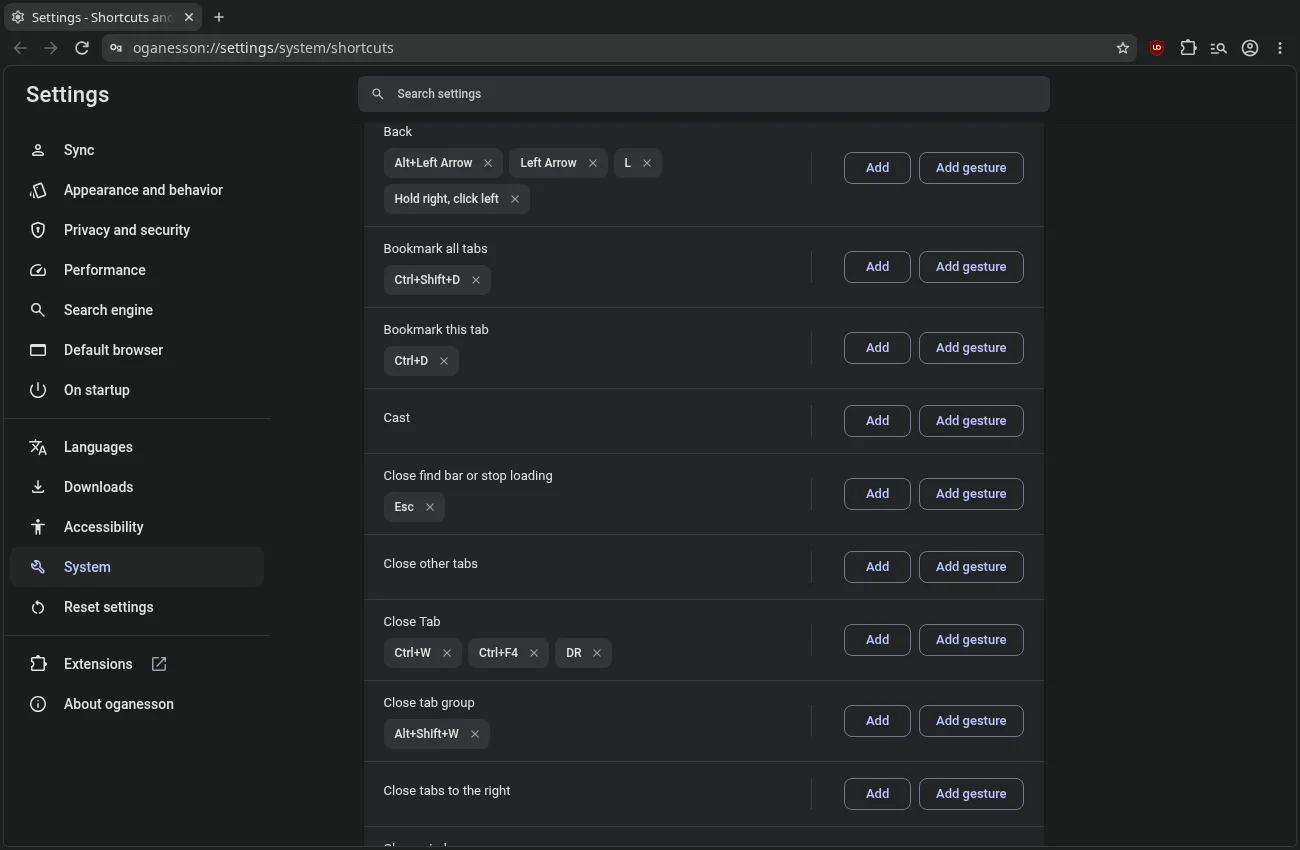
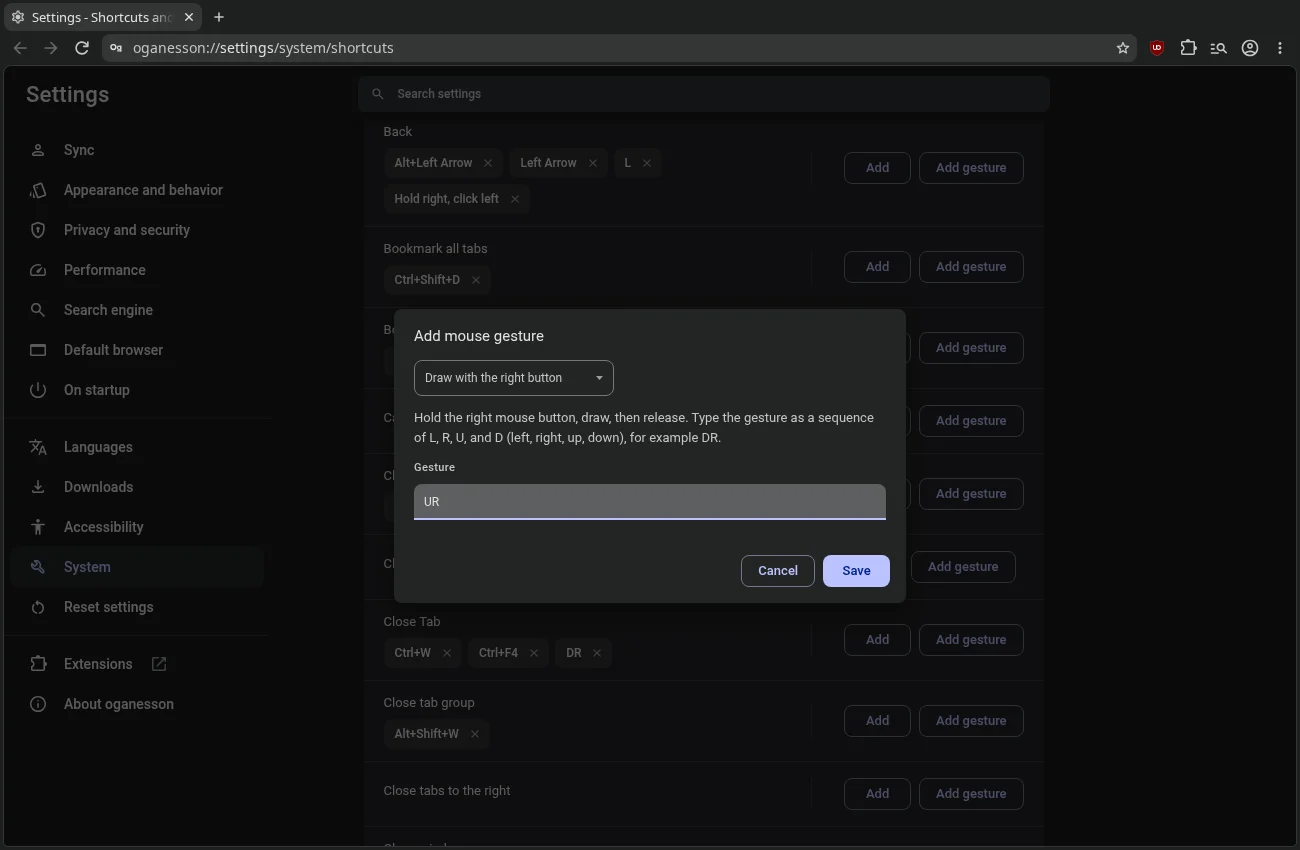
Site: screenshots of hidden close buttons, a moved uBlock Origin button, tabs on the right and adding a gesture

diff --git a/site/index.html b/site/index.html
@@ -255,10 +255,10 @@ footer .wrap{display:flex;justify-content:space-between;gap:20px;flex-wrap:wrap}
   </div>
   <div class="dubna"><span style="font-size:22px">⚛</span><span><b>dubna</b>, the shared core: Firefox-compatible Sync (C++ plus a Rust library), no saved history, interface translations, and the update policy that keeps both browsers on the same Chromium milestone. It's named after the town where both elements were first made.</span></div>
   <div class="shots">
-    <figure><a href="img/tabs.webp"><img src="img/tabs.webp" width="1300" height="850" loading="lazy" alt="oganesson with four Wikipedia tabs in a Firefox-style tab strip; uBlock Origin's button shows one blocked request"></a><figcaption>The classic layout, with uBlock Origin built in</figcaption></figure>
-    <figure><a href="img/vertical.webp"><img src="img/vertical.webp" width="1300" height="850" loading="lazy" alt="oganesson in the vertical layout, with the tabs in a column on the left"></a><figcaption>Helium's vertical layout, one setting away</figcaption></figure>
+    <figure><a href="img/tabs.webp"><img src="img/tabs.webp" width="1300" height="850" loading="lazy" alt="oganesson with four Wikipedia tabs and no close buttons on them; uBlock Origin's button sits left of the address bar and shows one blocked request"></a><figcaption>Tabs without close buttons, and uBlock Origin moved next to the address bar</figcaption></figure>
+    <figure><a href="img/vertical.webp"><img src="img/vertical.webp" width="1300" height="850" loading="lazy" alt="oganesson in the vertical layout, with the tabs in a column on the right"></a><figcaption>Vertical tabs, here on the right</figcaption></figure>
     <figure><a href="img/tab-behavior.webp"><img src="img/tab-behavior.webp" width="1300" height="850" loading="lazy" alt="The Tab behavior settings with the Firefox preset selected and its rules listed"></a><figcaption>Tab behavior: the Firefox preset, or each rule on its own</figcaption></figure>
-    <figure><a href="img/gestures.webp"><img src="img/gestures.webp" width="1300" height="850" loading="lazy" alt="Shortcuts and gestures settings: Back has the gestures L and hold right, click left; Close Tab has DR"></a><figcaption>Mouse gestures next to the keyboard shortcuts of each command</figcaption></figure>
+    <figure><a href="img/gestures.webp"><img src="img/gestures.webp" width="1300" height="850" loading="lazy" alt="Shortcuts and gestures settings with the Add mouse gesture dialog open and UR typed in; behind it, Back has the gestures L and hold right, click left, and Close Tab has DR"></a><figcaption>Adding a mouse gesture, next to each command's keyboard shortcuts</figcaption></figure>
   </div>
 </div></section>
 
